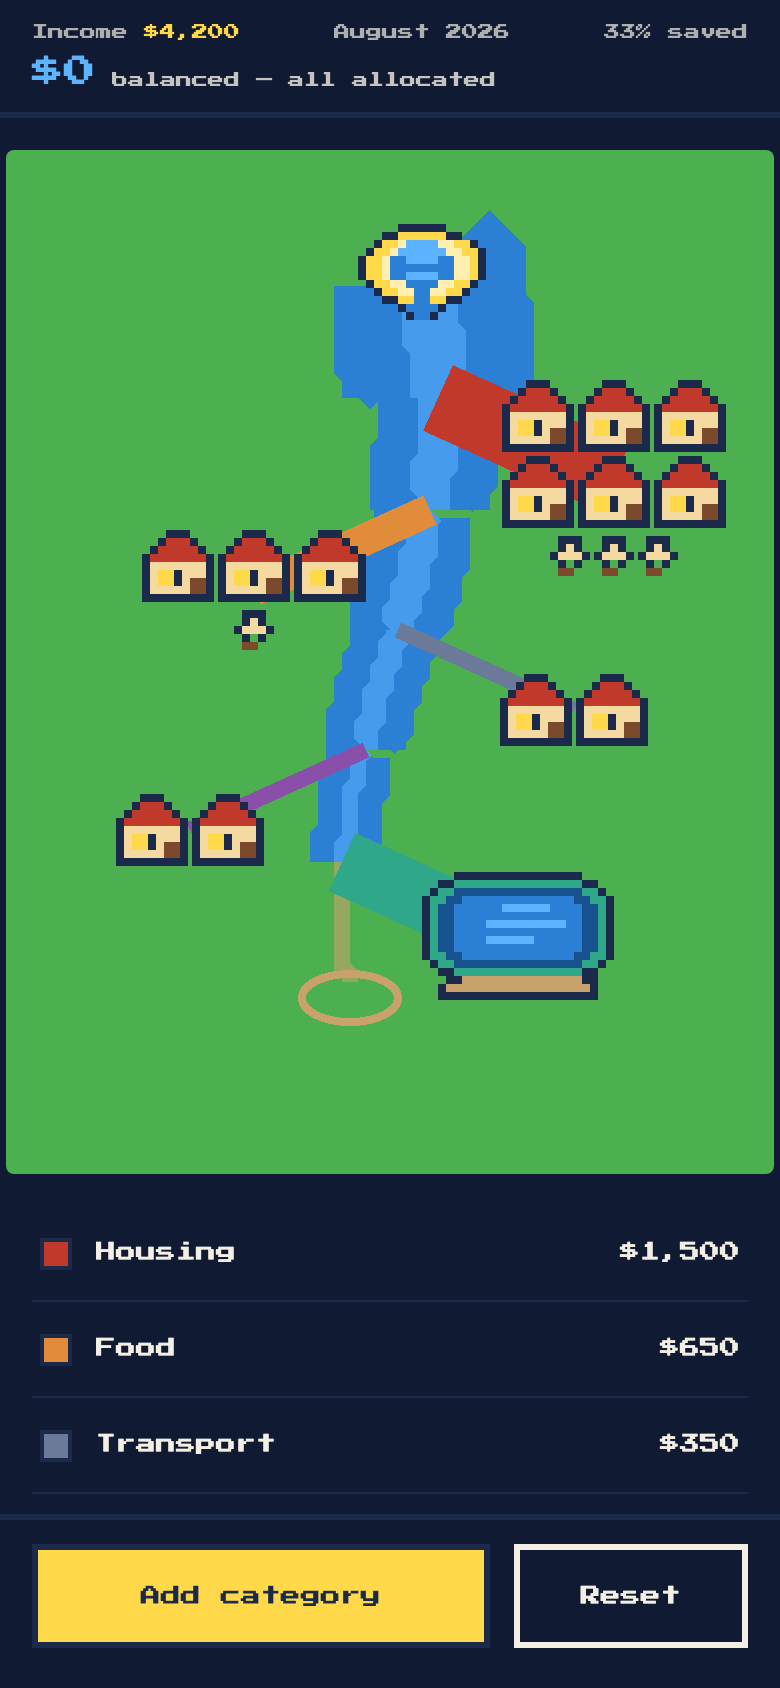
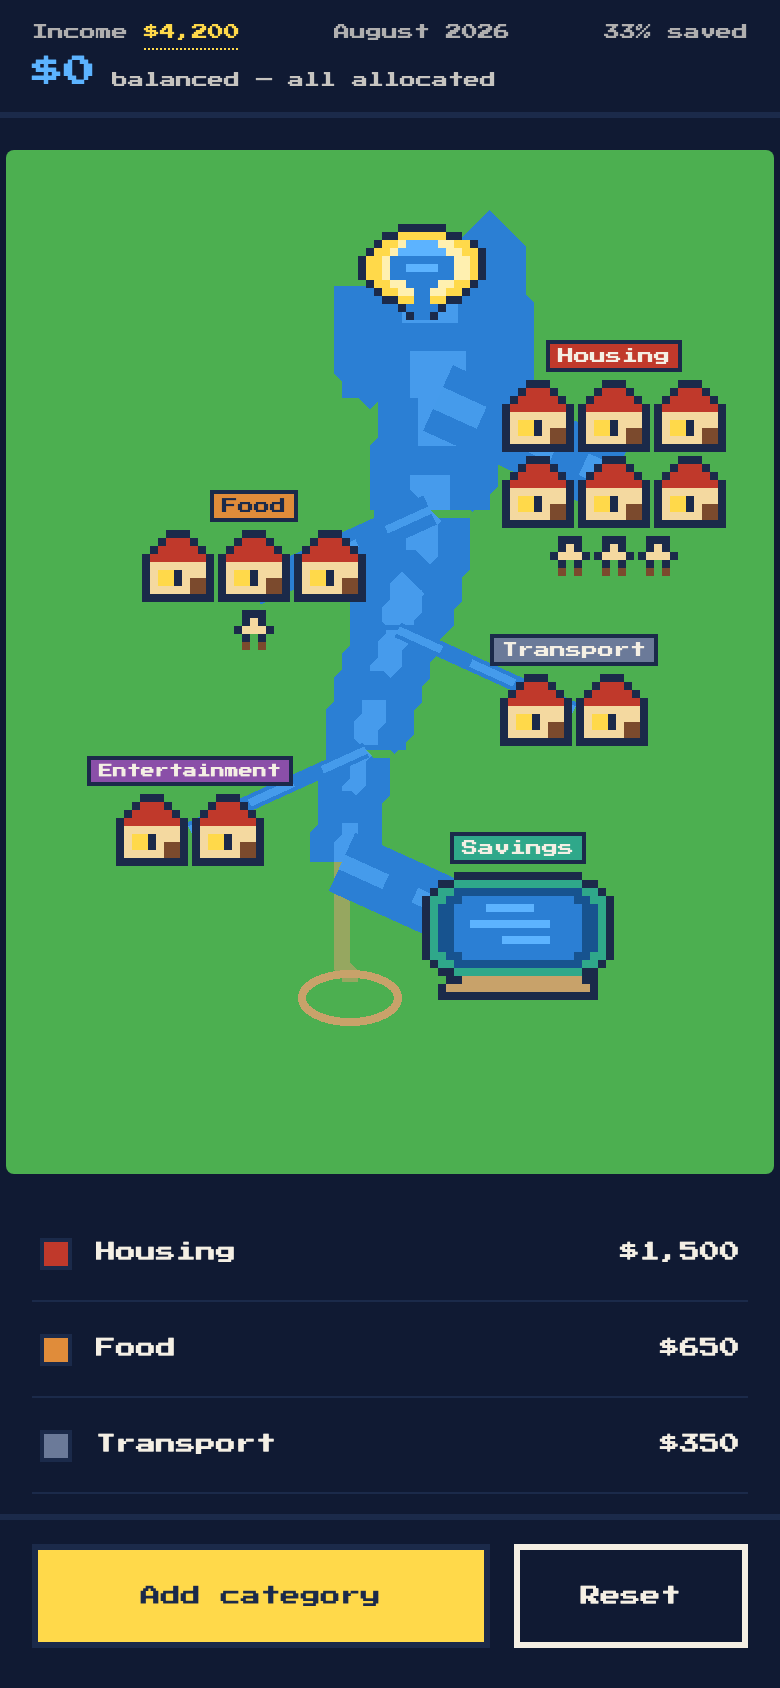
docs: re-capture the stills from the submitted build (78a230a)
The four screenshots showed coloured tributary strokes and no signboards —
a layout that predates 6ac05fd and that neither the submitted build nor main
renders. They were captured on index-BQm1pRqr.js and never updated when the
signboards landed.

They are the demo's contingency: if the network fails at the podium the
presenter narrates docs/DEMO_SCRIPT.md over these stills. Narrating a script
over a UI the judge cannot see on the URL is worse than having no stills.

Re-captured from https://cursor-squad-august-live.vercel.app serving
index-Vuol0JCn.js == 78a230a, the certified submission, at 390 x 844 with
deviceScaleFactor 2 and touch on. The capture asserts the bundle hash before
taking a single frame and aborts if the URL is serving anything else, so this
cannot silently drift again. Verified by looking at the images, not by
checking that they exist.

  01-empty-field       green field, Add Income, no river
  02-seeded-balanced   signboards, $0, balanced - all allocated
  03-category-sheet    Food selected, -/+ in $50 steps
  04-overspent         dry bed, warning, -$400 over budget

Filenames unchanged, so README.md and docs/DEMO_SCRIPT.md pick these up with
no edit. Documentation only; it cannot affect either deployed host.

Changed region(s): [[0.0923, 0.154, 0.8615, 0.5853], [0.6769, 0.1848, 0.8923, 0.3081], [0.2462, 0.2773, 0.4, 0.3081]]

diff --git a/docs/screenshots/README.md b/docs/screenshots/README.md
@@ -1,8 +1,21 @@
 # Screenshots
 
-Captured from the **live deployment**, not from a dev server:
-`https://cursor-squad-august-live.vercel.app`, headless Chromium,
-390 × 844, `deviceScaleFactor: 2`, touch enabled.
+Captured from the **submitted build**, on the live URL, not from a dev server
+and not from `main`:
+
+    https://cursor-squad-august-live.vercel.app
+    bundle index-Vuol0JCn.js  ==  78a230a, the certified submission
+    headless Chromium, 390 × 844, deviceScaleFactor 2, touch enabled
+
+The bundle hash was asserted at capture time and the run aborts if the live URL
+is serving anything else, because these are the demo's contingency stills: if the
+network dies at the podium, the presenter narrates the same script over these.
+**A still that shows a UI the live URL does not render is worse than no still.**
+
+An earlier set was captured before the signboards landed and showed coloured
+tributary strokes with no signs — a layout neither the submitted build nor `main`
+renders. They loaded fine and were wrong. Verifying that an image is *served* is
+not verifying what is *in* it.
 
 | File | State |
 |---|---|
